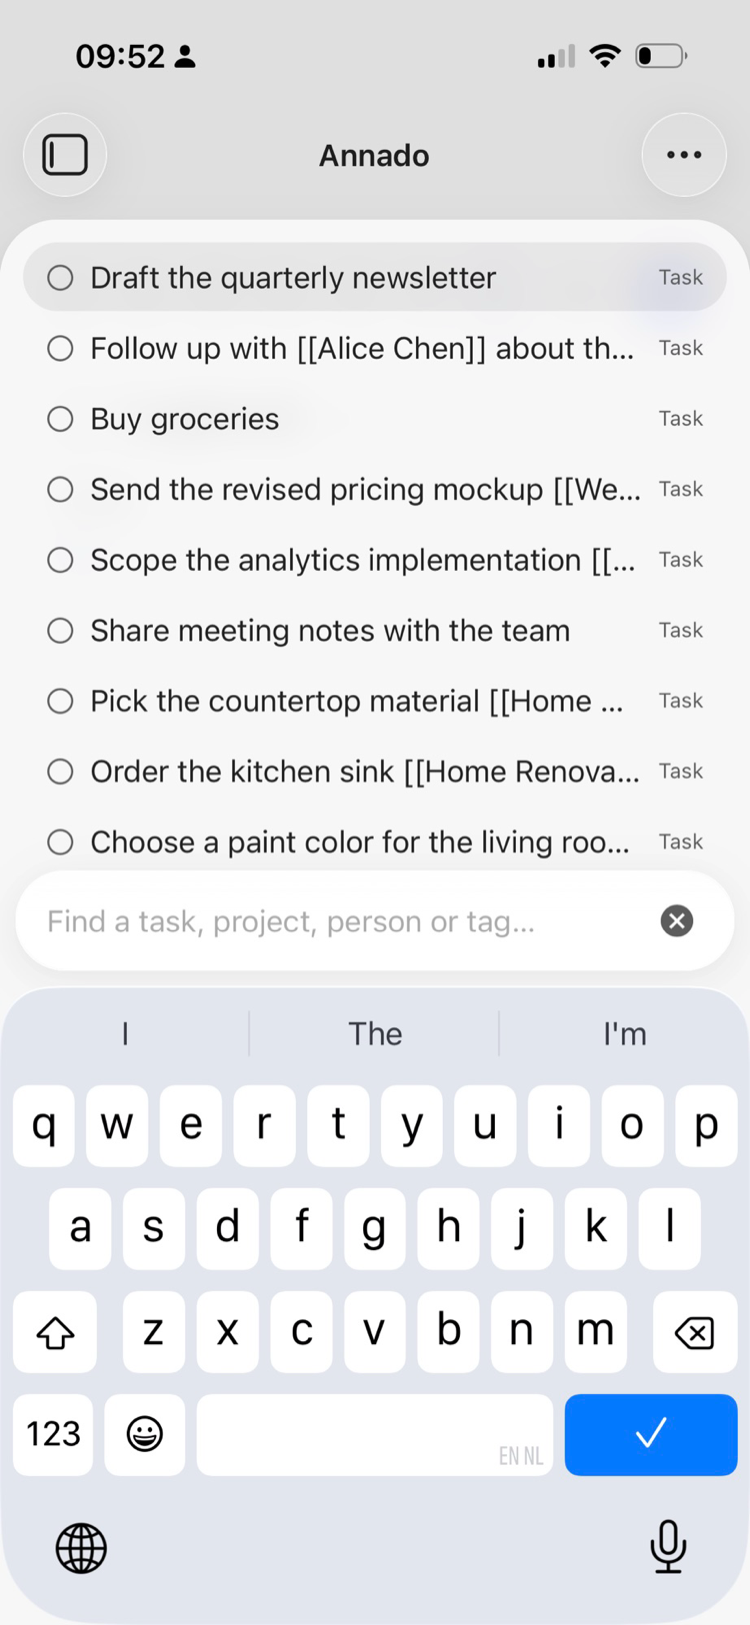
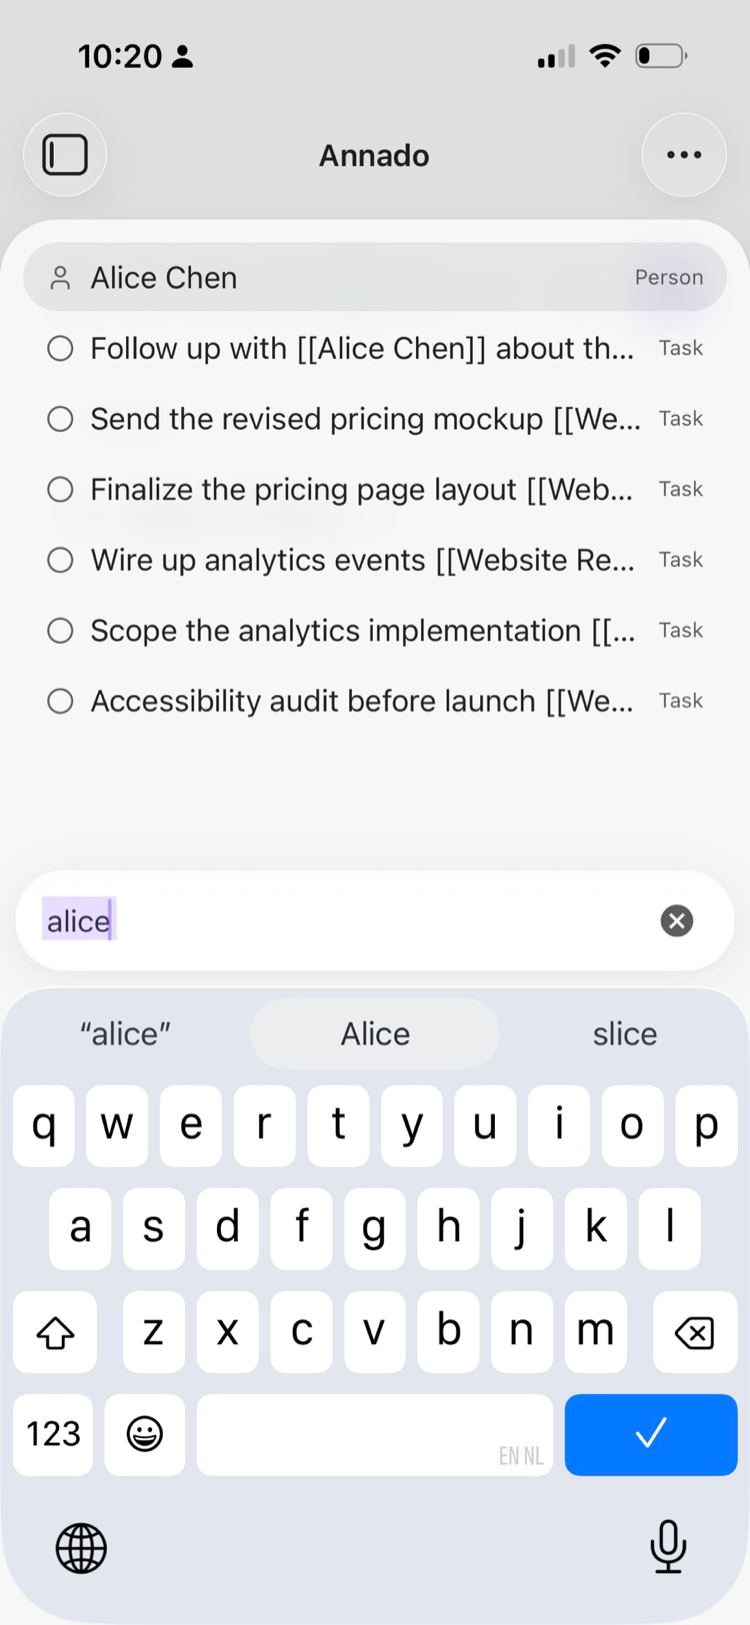
docs: Quick Find screenshot showing entity search in action

diff --git a/README.md b/README.md
@@ -58,8 +58,8 @@ Anytime, Someday and Logbook live behind the **⋯ More** button:
 
 | More views | Quick Find |
 |:--:|:--:|
-| <img src="images/more-views.png" width="240" alt="The More menu with Anytime, Someday and Logbook"> | <img src="images/quick-find.png" width="240" alt="Quick Find searching tasks, projects, people and tags"> |
-| One tap away. | Search tasks, projects, people and tags from anywhere. |
+| <img src="images/more-views.png" width="240" alt="The More menu with Anytime, Someday and Logbook"> | <img src="images/quick-find.png" width="240" alt="Quick Find: typing 'alice' surfaces the person Alice Chen plus every matching task"> |
+| One tap away. | Type a few letters and jump to a task — or straight to a person, project or tag. |
 
 ## Adding and editing
 
